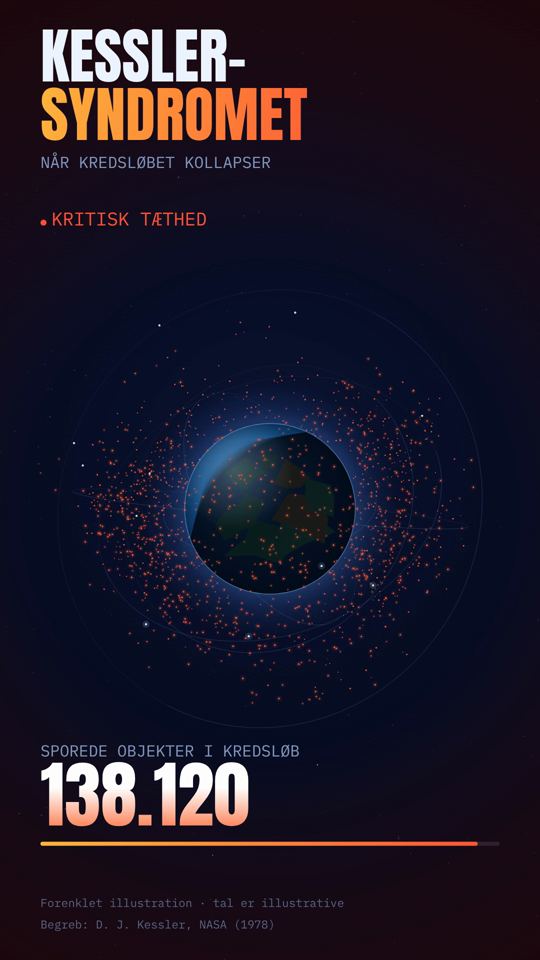
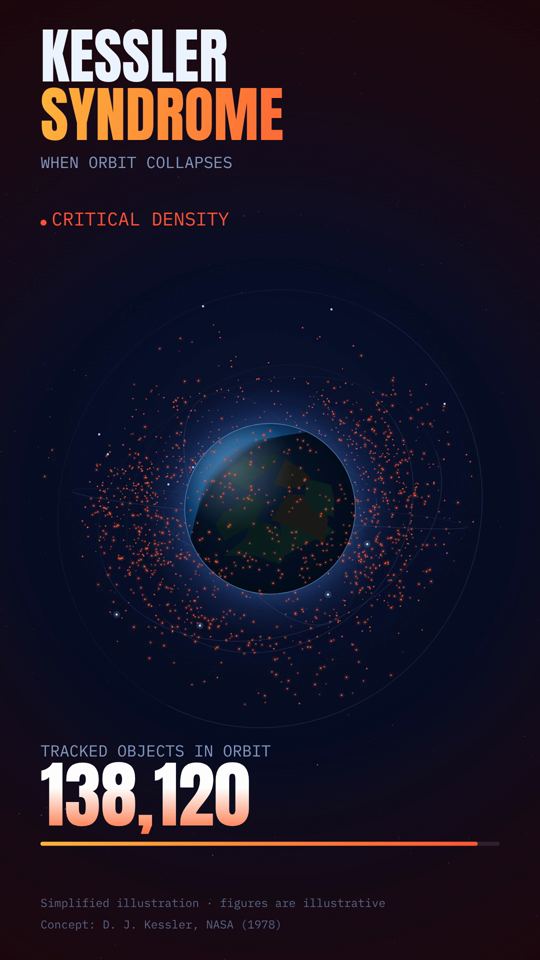
Switch Kessler video to English labels
All on-screen text is now English (headline, phase labels, counter label,
footer) and the counter uses en-US thousands separators. preview.png
re-rendered from the English build.

Claude-Session: https://claude.ai/code/session_01VyxBjxpu3pg9ahJ4yd7Mfv

diff --git a/kessler-syndrome/render.html b/kessler-syndrome/render.html
@@ -1,9 +1,9 @@
 <!doctype html>
-<html lang="da">
+<html lang="en">
 <head>
 <meta charset="utf-8">
 <meta name="viewport" content="width=device-width,initial-scale=1,viewport-fit=cover">
-<title>Kessler-syndromet</title>
+<title>Kessler Syndrome</title>
 <style>
 /* === embedded fonts (base64, fully offline) === */
[1 lines of base64/hex data omitted]
@@ -44,7 +44,7 @@ button:focus-visible{outline:2px solid var(--ember);outline-offset:2px;}
   <div id="stage"><canvas id="c"></canvas></div>
   <div id="bar">
     <button id="replay">↻ Replay</button>
-    <span class="hint">9:16 · ~26 sek · Kessler-syndromet</span>
+    <span class="hint">9:16 · ~26 sec · Kessler Syndrome</span>
   </div>
 </div>
 
@@ -336,7 +336,7 @@ function renderFrame(){
 }
 
 // ---------- HUD ----------
-function fmt(n){ return Math.round(n).toLocaleString('da-DK'); }
+function fmt(n){ return Math.round(n).toLocaleString('en-US'); }
 function drawHUD(t, heat, intro){
   const pad = W*0.075;
   // headline (top)
@@ -345,23 +345,23 @@ function drawHUD(t, heat, intro){
   ctx.textAlign='left'; ctx.textBaseline='alphabetic';
   ctx.font = `${Math.round(W*0.112)}px Anton, sans-serif`;
   ctx.fillStyle = '#eef4ff';
-  ctx.fillText('KESSLER-', pad, hy);
+  ctx.fillText('KESSLER', pad, hy);
   // accent second line
   const grad = ctx.createLinearGradient(pad,hy, pad+W*0.6,hy+W*0.12);
   grad.addColorStop(0,'#ffb43d'); grad.addColorStop(1,'#ff5236');
   ctx.fillStyle = heat>0.05? grad : '#eef4ff';
-  ctx.fillText('SYNDROMET', pad, hy+W*0.108);
+  ctx.fillText('SYNDROME', pad, hy+W*0.108);
   // subhead
   ctx.font = `${Math.round(W*0.03)}px "IBM Plex Mono", monospace`;
   ctx.fillStyle = 'rgba(138,160,200,0.95)';
-  ctx.fillText('NÅR KREDSLØBET KOLLAPSER', pad, hy+W*0.16);
+  ctx.fillText('WHEN ORBIT COLLAPSES', pad, hy+W*0.16);
   ctx.globalAlpha=1;
 
   // phase label (just under headline block)
-  let phase='STABILE BANER', pc='#cfe9ff';
-  if(t>=T_TRIG && destroyed<=2){ phase='FØRSTE KOLLISION'; pc='#fff4d6'; }
-  else if(destroyed>2 && heat<0.75){ phase='KÆDEREAKTION'; pc='#ffb43d'; }
-  else if(heat>=0.75){ phase='KRITISK TÆTHED'; pc='#ff5236'; }
+  let phase='STABLE ORBITS', pc='#cfe9ff';
+  if(t>=T_TRIG && destroyed<=2){ phase='FIRST COLLISION'; pc='#fff4d6'; }
+  else if(destroyed>2 && heat<0.75){ phase='CHAIN REACTION'; pc='#ffb43d'; }
+  else if(heat>=0.75){ phase='CRITICAL DENSITY'; pc='#ff5236'; }
   const py=H*0.235;
   ctx.globalAlpha=intro;
   ctx.font=`${Math.round(W*0.034)}px "IBM Plex Mono", monospace`;
@@ -377,7 +377,7 @@ function drawHUD(t, heat, intro){
   ctx.globalAlpha=intro;
   ctx.font=`${Math.round(W*0.03)}px "IBM Plex Mono", monospace`;
   ctx.fillStyle='rgba(138,160,200,0.95)';
-  ctx.fillText('SPOREDE OBJEKTER I KREDSLØB', pad, by-W*0.128);
+  ctx.fillText('TRACKED OBJECTS IN ORBIT', pad, by-W*0.128);
   // number
   const ng=ctx.createLinearGradient(pad,by-W*0.07,pad,by+W*0.01);
   ng.addColorStop(0,'#ffffff'); ng.addColorStop(1, heat>0.3? '#ff7a4d':'#bfe0ff');
@@ -396,8 +396,8 @@ function drawHUD(t, heat, intro){
   ctx.font=`${Math.round(W*0.0215)}px "IBM Plex Mono", monospace`;
   ctx.fillStyle='rgba(120,140,180,0.7)';
   ctx.textAlign='left';
-  ctx.fillText('Forenklet illustration · tal er illustrative', pad, H*0.945);
-  ctx.fillText('Begreb: D. J. Kessler, NASA (1978)', pad, H*0.967);
+  ctx.fillText('Simplified illustration · figures are illustrative', pad, H*0.945);
+  ctx.fillText('Concept: D. J. Kessler, NASA (1978)', pad, H*0.967);
 }
 function roundRect(x,y,w,h,r){ ctx.beginPath(); ctx.moveTo(x+r,y); ctx.arcTo(x+w,y,x+w,y+h,r); ctx.arcTo(x+w,y+h,x,y+h,r); ctx.arcTo(x,y+h,x,y,r); ctx.arcTo(x,y,x+w,y,r); ctx.closePath(); }
 
